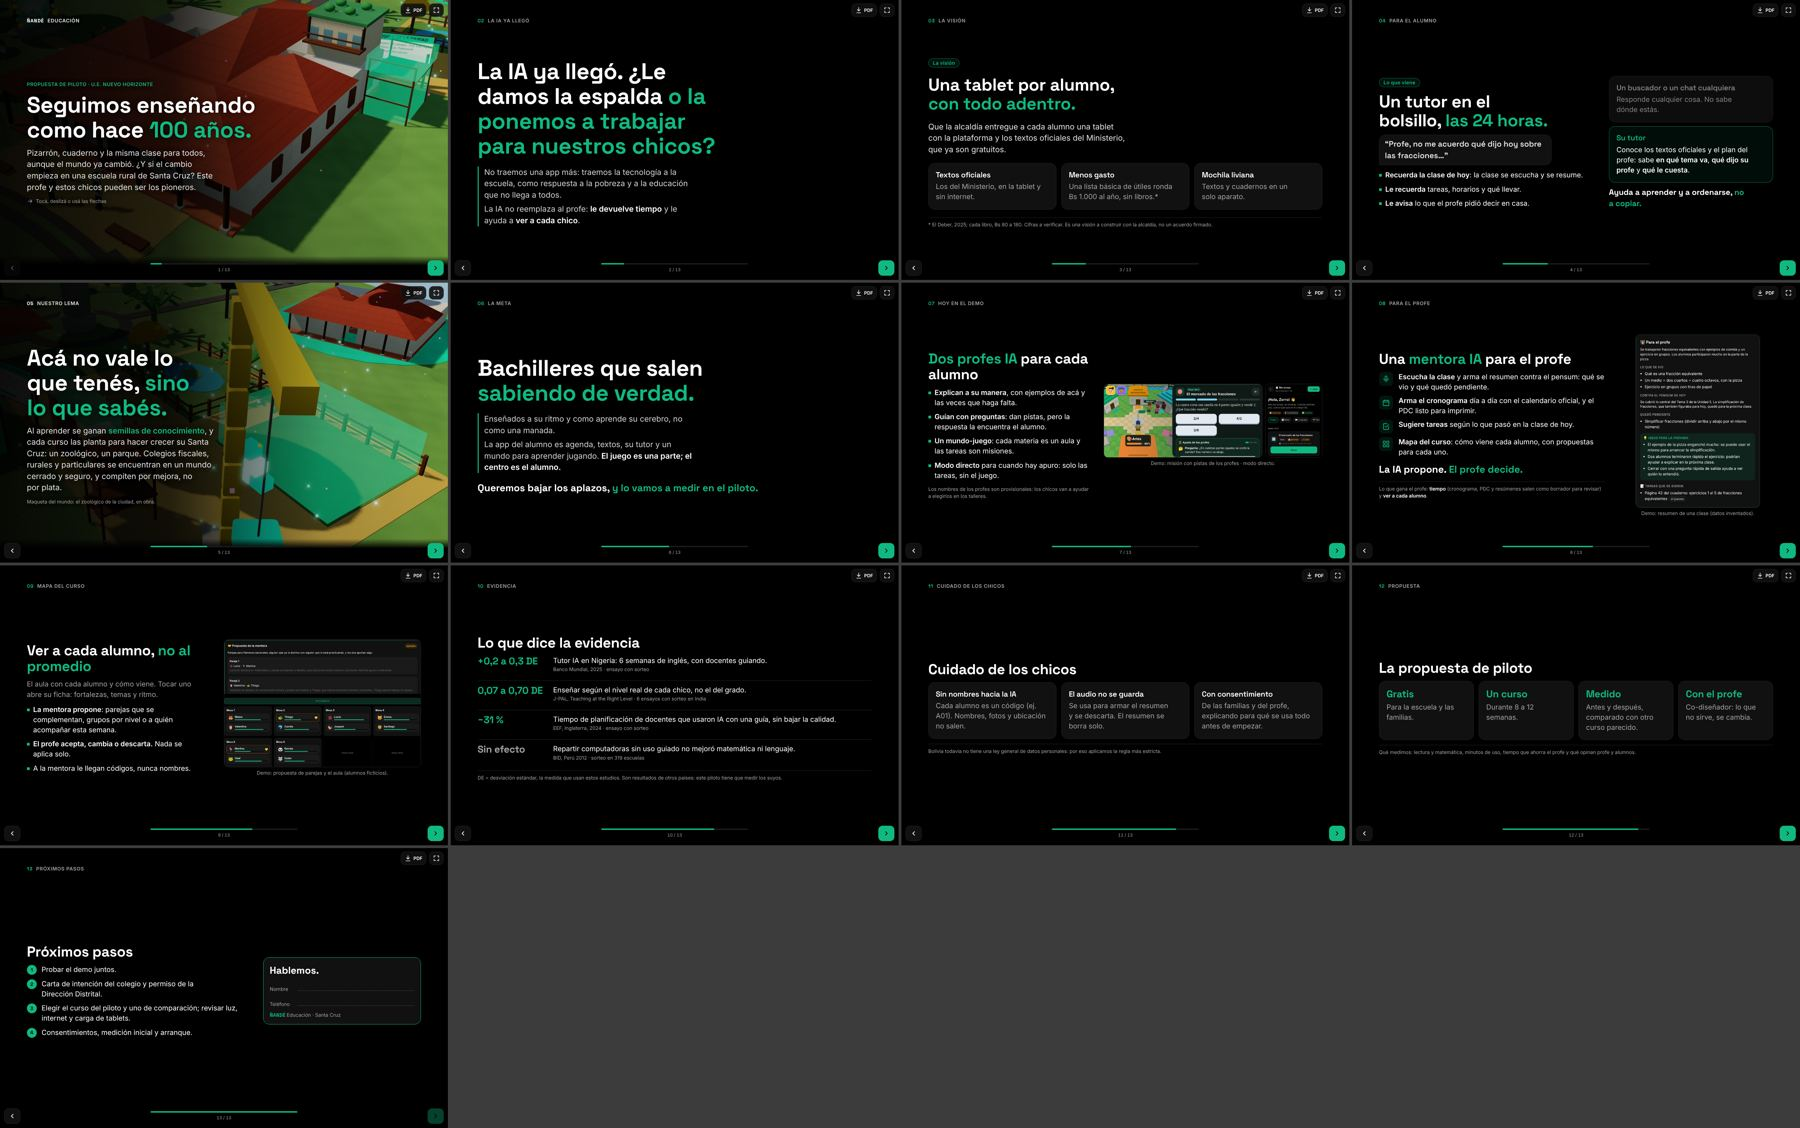
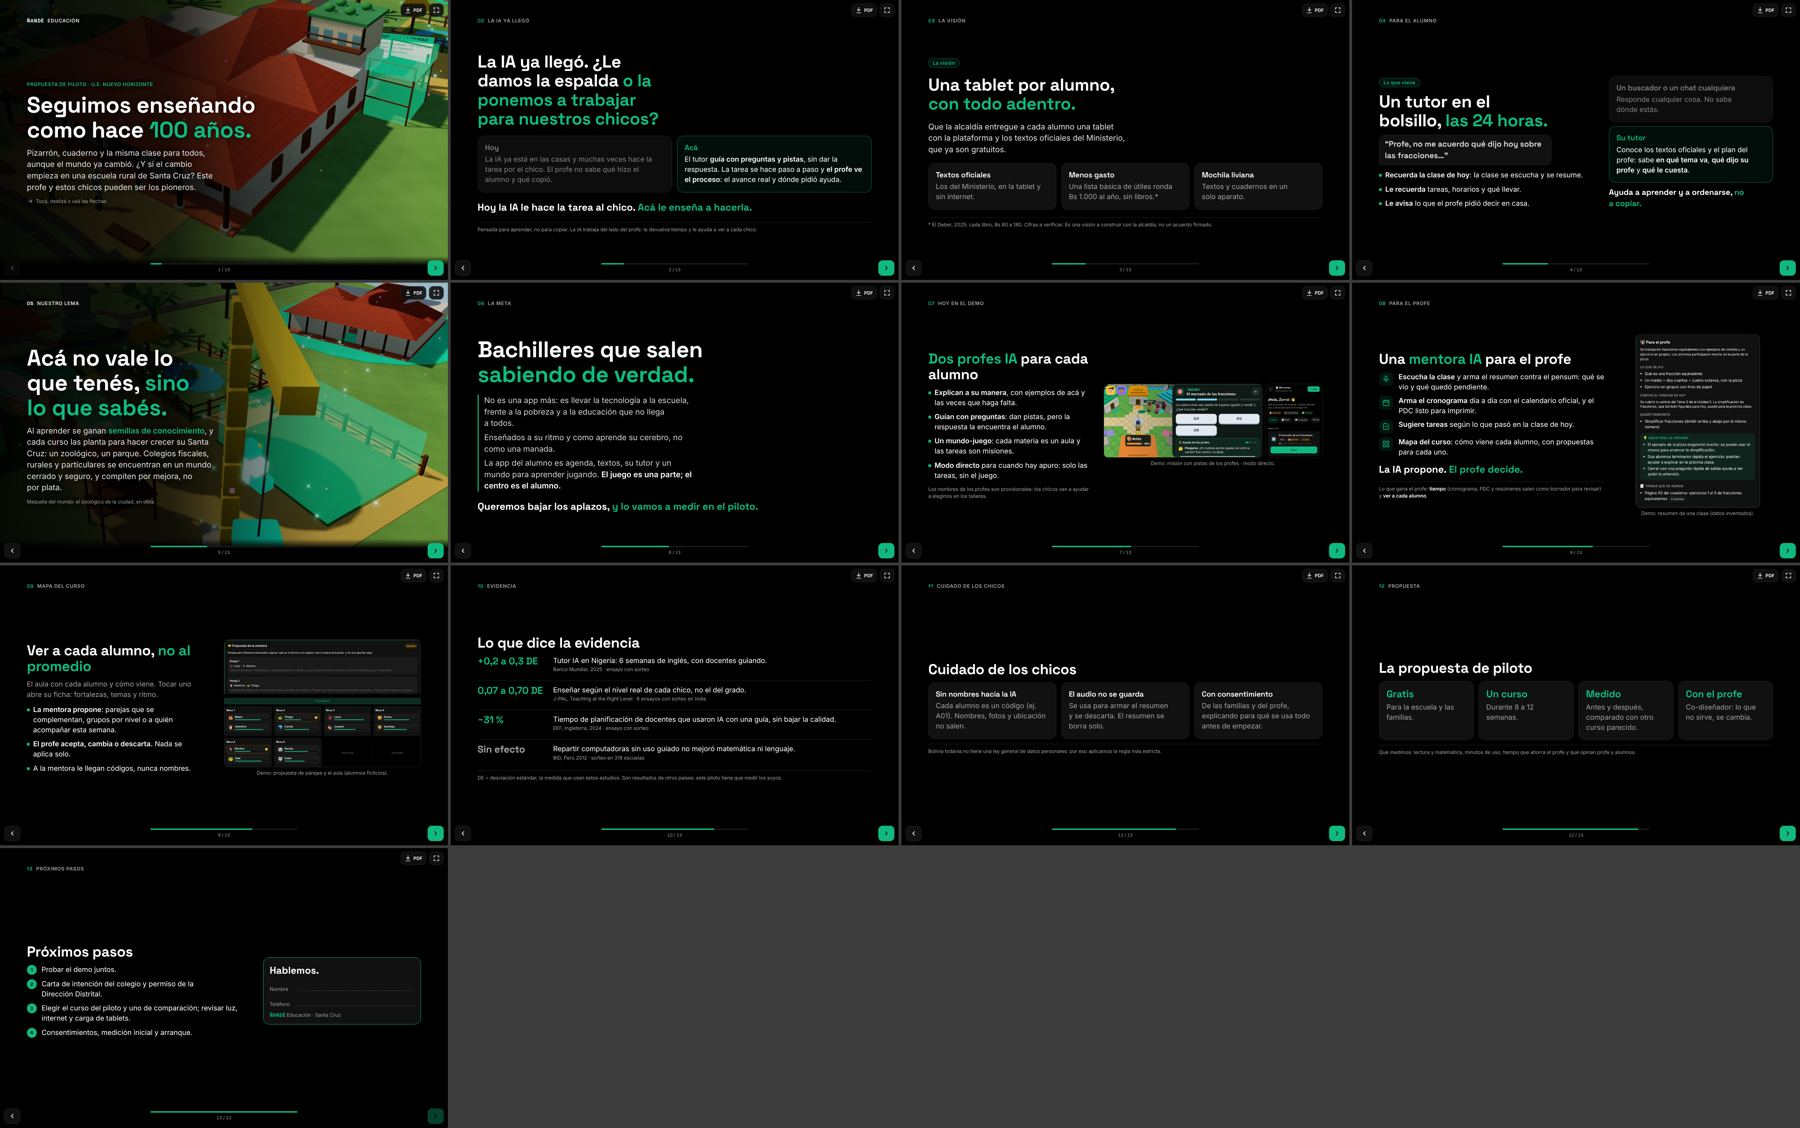
EDU.14b — Lámina 2: "Hoy la IA le hace la tarea al chico. Acá le enseña a hacerla."
Contraste Hoy / Acá (guía con preguntas, paso a paso, el profe ve el proceso).
Títulos más compactos en celular acostado.

Claude-Session: https://claude.ai/code/session_01Jdt98c2PQNpQHHMW92gX8n

Changed region(s): [[0.2489, 0.031, 0.4667, 0.2172], [0.2489, 0.2793, 0.4356, 0.4654]]

diff --git a/educacion/presentacion/index.html b/educacion/presentacion/index.html
@@ -136,6 +136,8 @@ figcaption { font-size: var(--chico); color: var(--sec); text-align: center; }
 h2.grande { font-size: calc(var(--h2) * 1.2); max-width: 20ch; text-wrap: balance; }
 .globo { font-family: 'Space Grotesk', sans-serif; font-weight: 600; font-size: calc(var(--f) * 1.12); background: var(--sup2);
   border: 1px solid var(--borde); border-radius: 18px 18px 18px 4px; padding: 10px 16px; max-width: 34ch; color: #e5e5e5; }
+.tarjetas.dos-col { grid-template-columns: 1fr; }
+@media (orientation: landscape), print { .tarjetas.dos-col { grid-template-columns: 1fr 1fr; } }
 .contraste { display: flex; flex-direction: column; gap: calc(var(--gap) * .8); }
 .tarjeta.gris { opacity: .8; }
 .tarjeta.gris h3 { color: var(--sec); }
@@ -146,6 +148,13 @@ h2.grande { font-size: calc(var(--h2) * 1.2); max-width: 20ch; text-wrap: balanc
 .hero .marca b { color: #fff; }
 @media screen and (orientation: landscape) and (max-height: 520px), screen and (orientation: portrait) and (max-height: 780px) { .sello-rep { display: none; } }
 @media screen and (orientation: portrait) and (max-height: 780px) { .sin-chico { display: none; } }
+
+@media screen and (orientation: landscape) and (max-height: 520px) {
+  .declaracion h1, h2.grande { font-size: var(--h2); }
+  .lineas, .bajada, .globo { font-size: var(--f); }
+  .declaracion .cuerpo { gap: var(--gap); }
+}
+@media screen and (orientation: portrait) and (max-height: 780px) { h2.grande { font-size: var(--h2); } }
 /* ── Controles ───────────────────────────── */
 .barra { position: fixed; left: 0; right: 0; bottom: 0; height: calc(var(--barra) + env(safe-area-inset-bottom));
   padding: 0 calc(12px + env(safe-area-inset-right)) env(safe-area-inset-bottom) calc(12px + env(safe-area-inset-left));
@@ -246,11 +255,13 @@ h2.grande { font-size: calc(var(--h2) * 1.2); max-width: 20ch; text-wrap: balanc
   <section class="lam declaracion">
     <div class="marca"><b class="n"></b> La IA ya llegó</div>
     <div class="cuerpo">
-      <h1>La IA ya llegó. ¿Le damos la espalda <span class="verde">o la ponemos a trabajar para nuestros chicos?</span></h1>
-      <div class="lineas">
-        <p>No traemos una app más: traemos la tecnología a la escuela, como respuesta a la pobreza y a la educación que no llega a todos.</p>
-        <p>La IA no reemplaza al profe: <b>le devuelve tiempo</b> y le ayuda a <b>ver a cada chico</b>.</p>
+      <h2 class="grande">La IA ya llegó. ¿Le damos la espalda <span class="verde">o la ponemos a trabajar para nuestros chicos?</span></h2>
+      <div class="tarjetas dos-col">
+        <div class="tarjeta gris"><h3>Hoy</h3><p class="sec">La IA ya está en las casas y muchas veces hace la tarea por el chico. El profe no sabe qué hizo el alumno y qué copió.</p></div>
+        <div class="tarjeta verde-borde"><h3 class="verde">Acá</h3><p>El tutor <b>guía con preguntas y pistas</b>, sin dar la respuesta. La tarea se hace paso a paso y <b>el profe ve el proceso</b>: el avance real y dónde pidió ayuda.</p></div>
       </div>
+      <p class="frase">Hoy la IA le hace la tarea al chico. <span>Acá le enseña a hacerla.</span></p>
+      <p class="nota">Pensada para aprender, no para copiar. La IA trabaja del lado del profe: le devuelve tiempo y le ayuda a ver a cada chico.</p>
     </div>
   </section>
 
@@ -309,6 +320,7 @@ h2.grande { font-size: calc(var(--h2) * 1.2); max-width: 20ch; text-wrap: balanc
     <div class="cuerpo">
       <h1>Bachilleres que salen <span class="verde">sabiendo de verdad.</span></h1>
       <div class="lineas">
+        <p>No es una app más: es llevar la tecnología a la escuela, frente a la pobreza y a la educación que no llega a todos.</p>
         <p>Enseñados a su ritmo y como aprende su cerebro, no como una manada.</p>
         <p>La app del alumno es agenda, textos, su tutor y un mundo para aprender jugando. <b>El juego es una parte; el centro es el alumno.</b></p>
       </div>

diff --git a/docs/sesiones/EDU.14-presentacion.md b/docs/sesiones/EDU.14-presentacion.md
@@ -66,7 +66,11 @@ a la educación como respuesta a la pobreza y a la falta de alcance.
 
 **Apertura (6):**
 1. **Seguimos enseñando como hace 100 años.** ¿Y si el cambio empieza en una escuela rural? Pioneros. (foto colegio)
-2. **La IA ya llegó.** ¿Espalda o ponerla a trabajar? No es una app más; no reemplaza al profe.
+2. **La IA ya llegó.** ¿Espalda o ponerla a trabajar? Agregado del dueño, el problema: "Hoy" la IA
+   hace la tarea por el chico y el profe no sabe qué copió; "Acá" el tutor guía con preguntas y
+   pistas, la tarea se hace paso a paso y el profe ve el proceso. "Hoy la IA le hace la tarea al
+   chico. Acá le enseña a hacerla." Sin prometer que es imposible copiar ("pensada para aprender,
+   no para copiar"). "No es una app más…" pasó a la lámina 6.
 3. **Una tablet por alumno, con todo adentro** — sello "La visión": alcaldía, textos oficiales del
    Ministerio (gratuitos), ahorro en útiles. Cifra: lista básica ≈ Bs 1.000 al año sin libros; libros
    Bs 80–180 c/u (El Deber, feb-2025, **a verificar**; Defensa del Consumidor publicó precios
